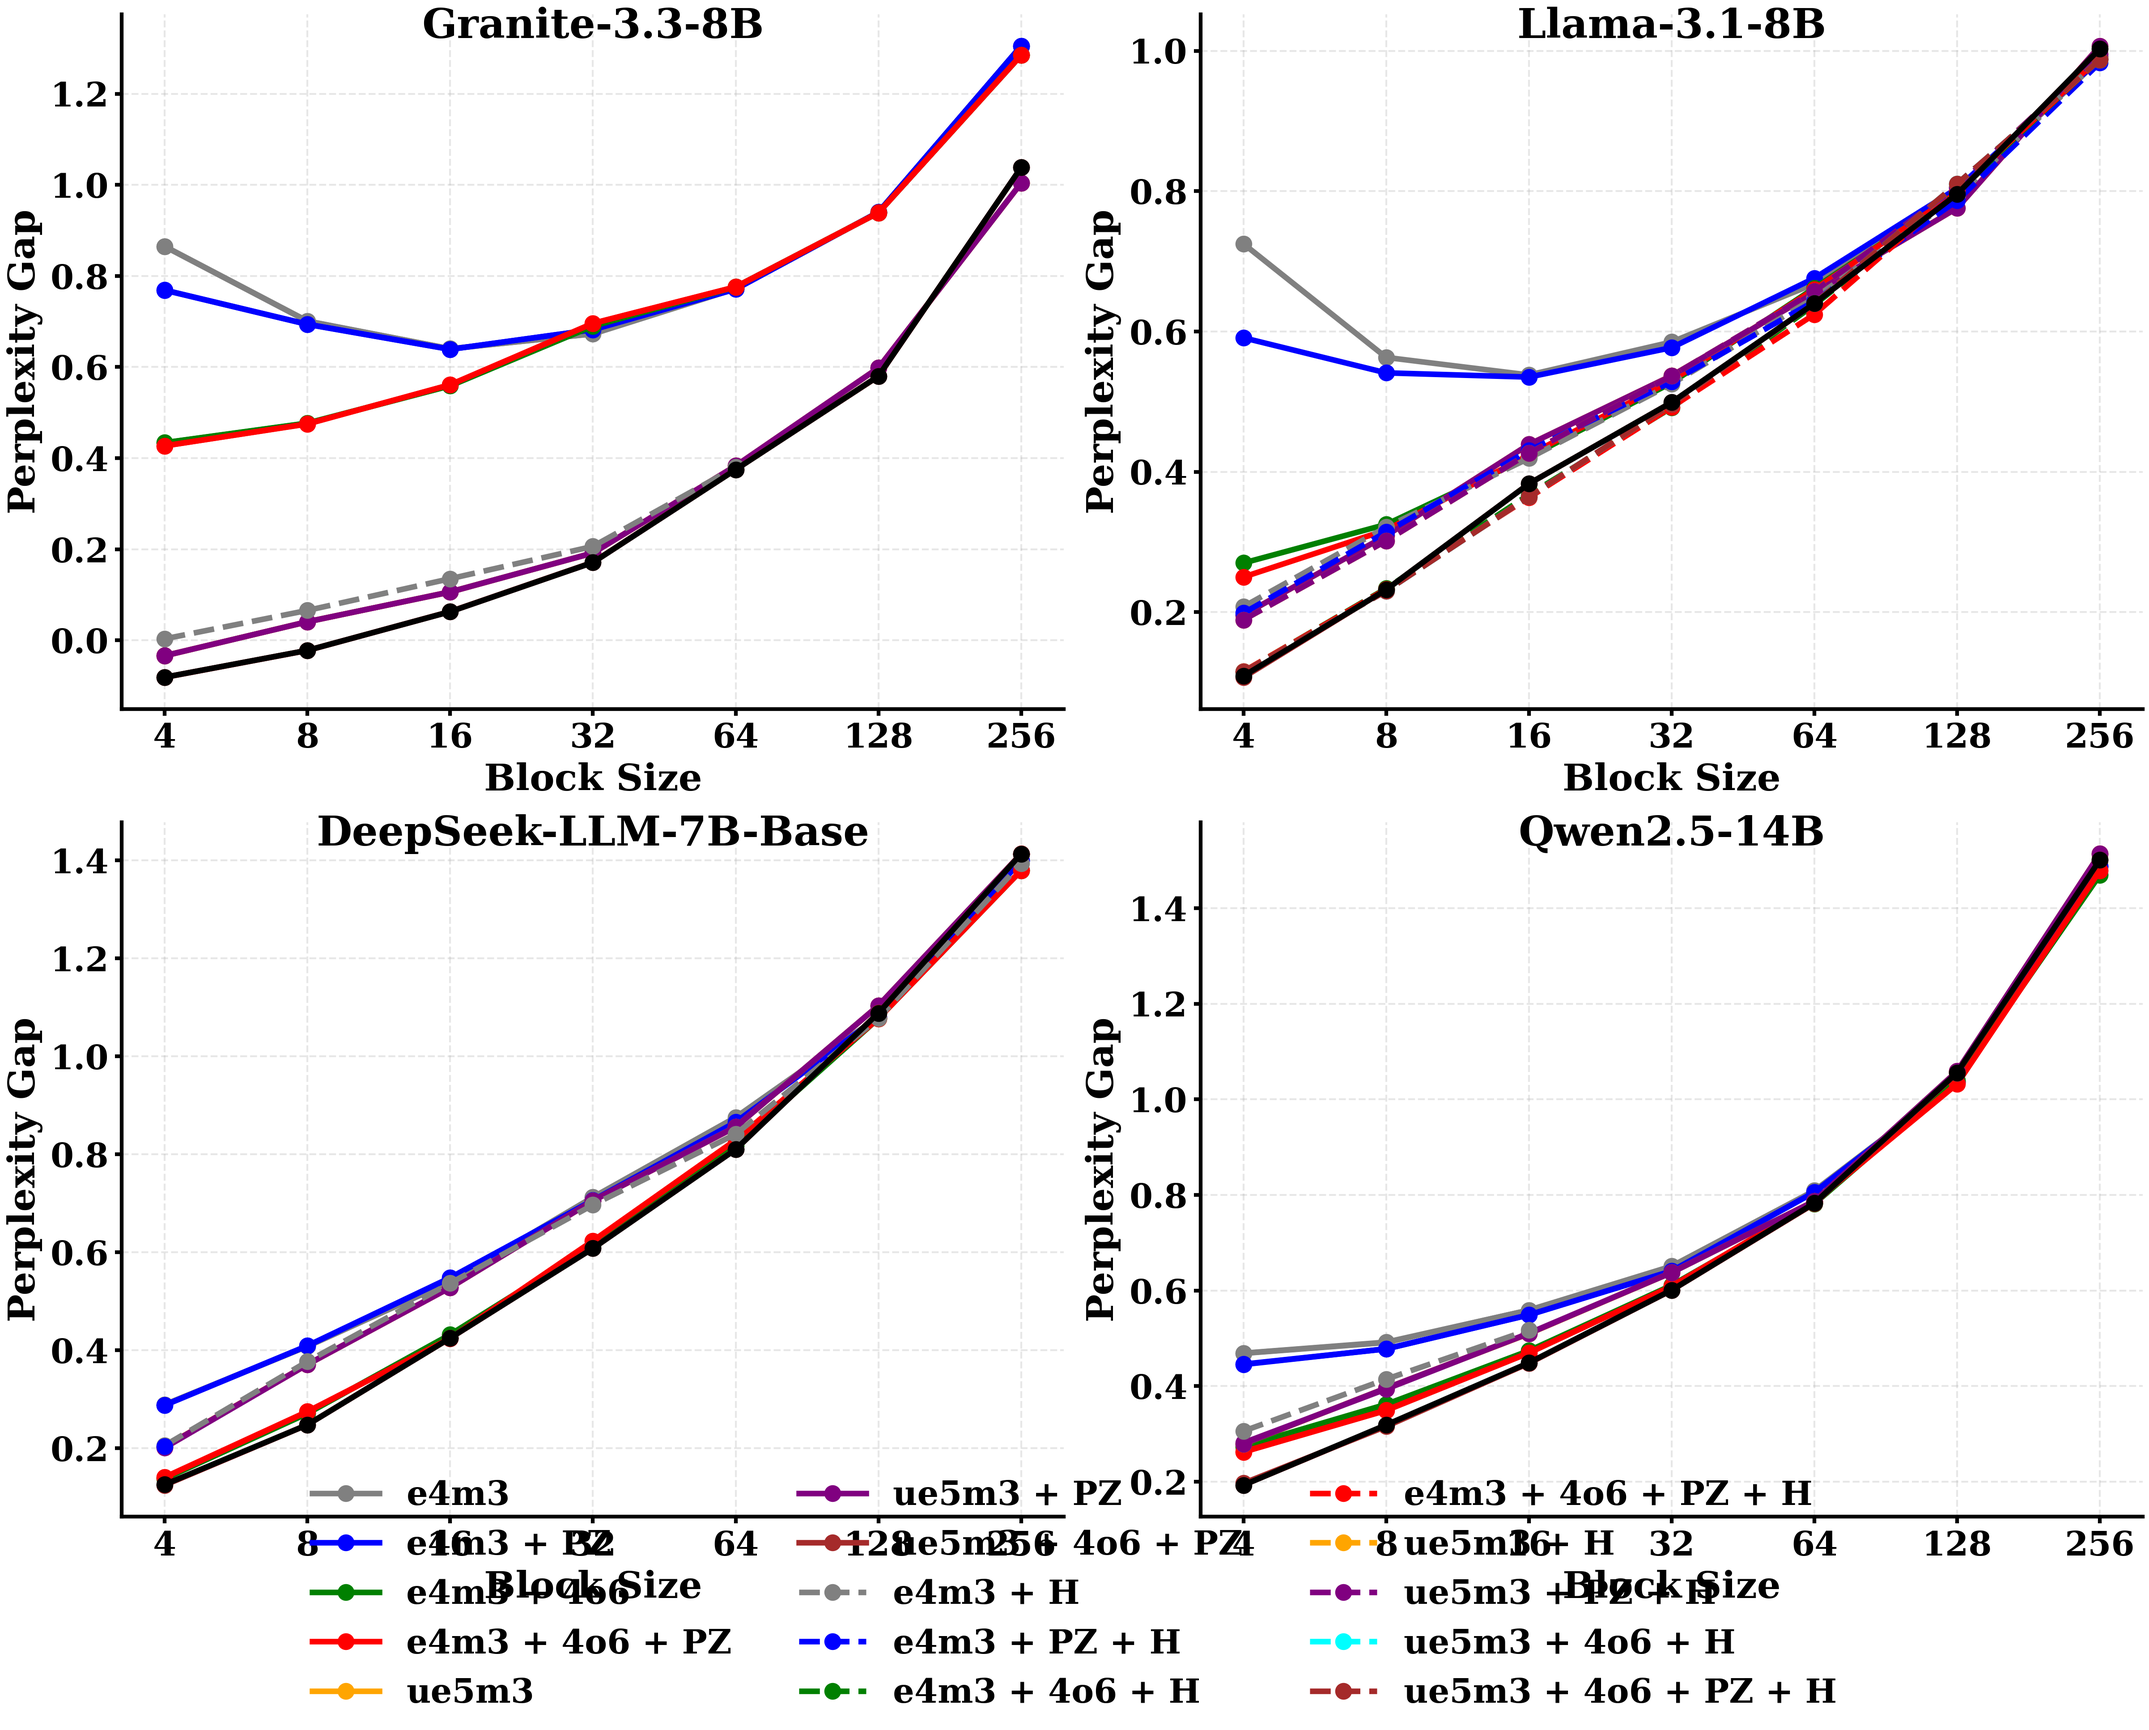
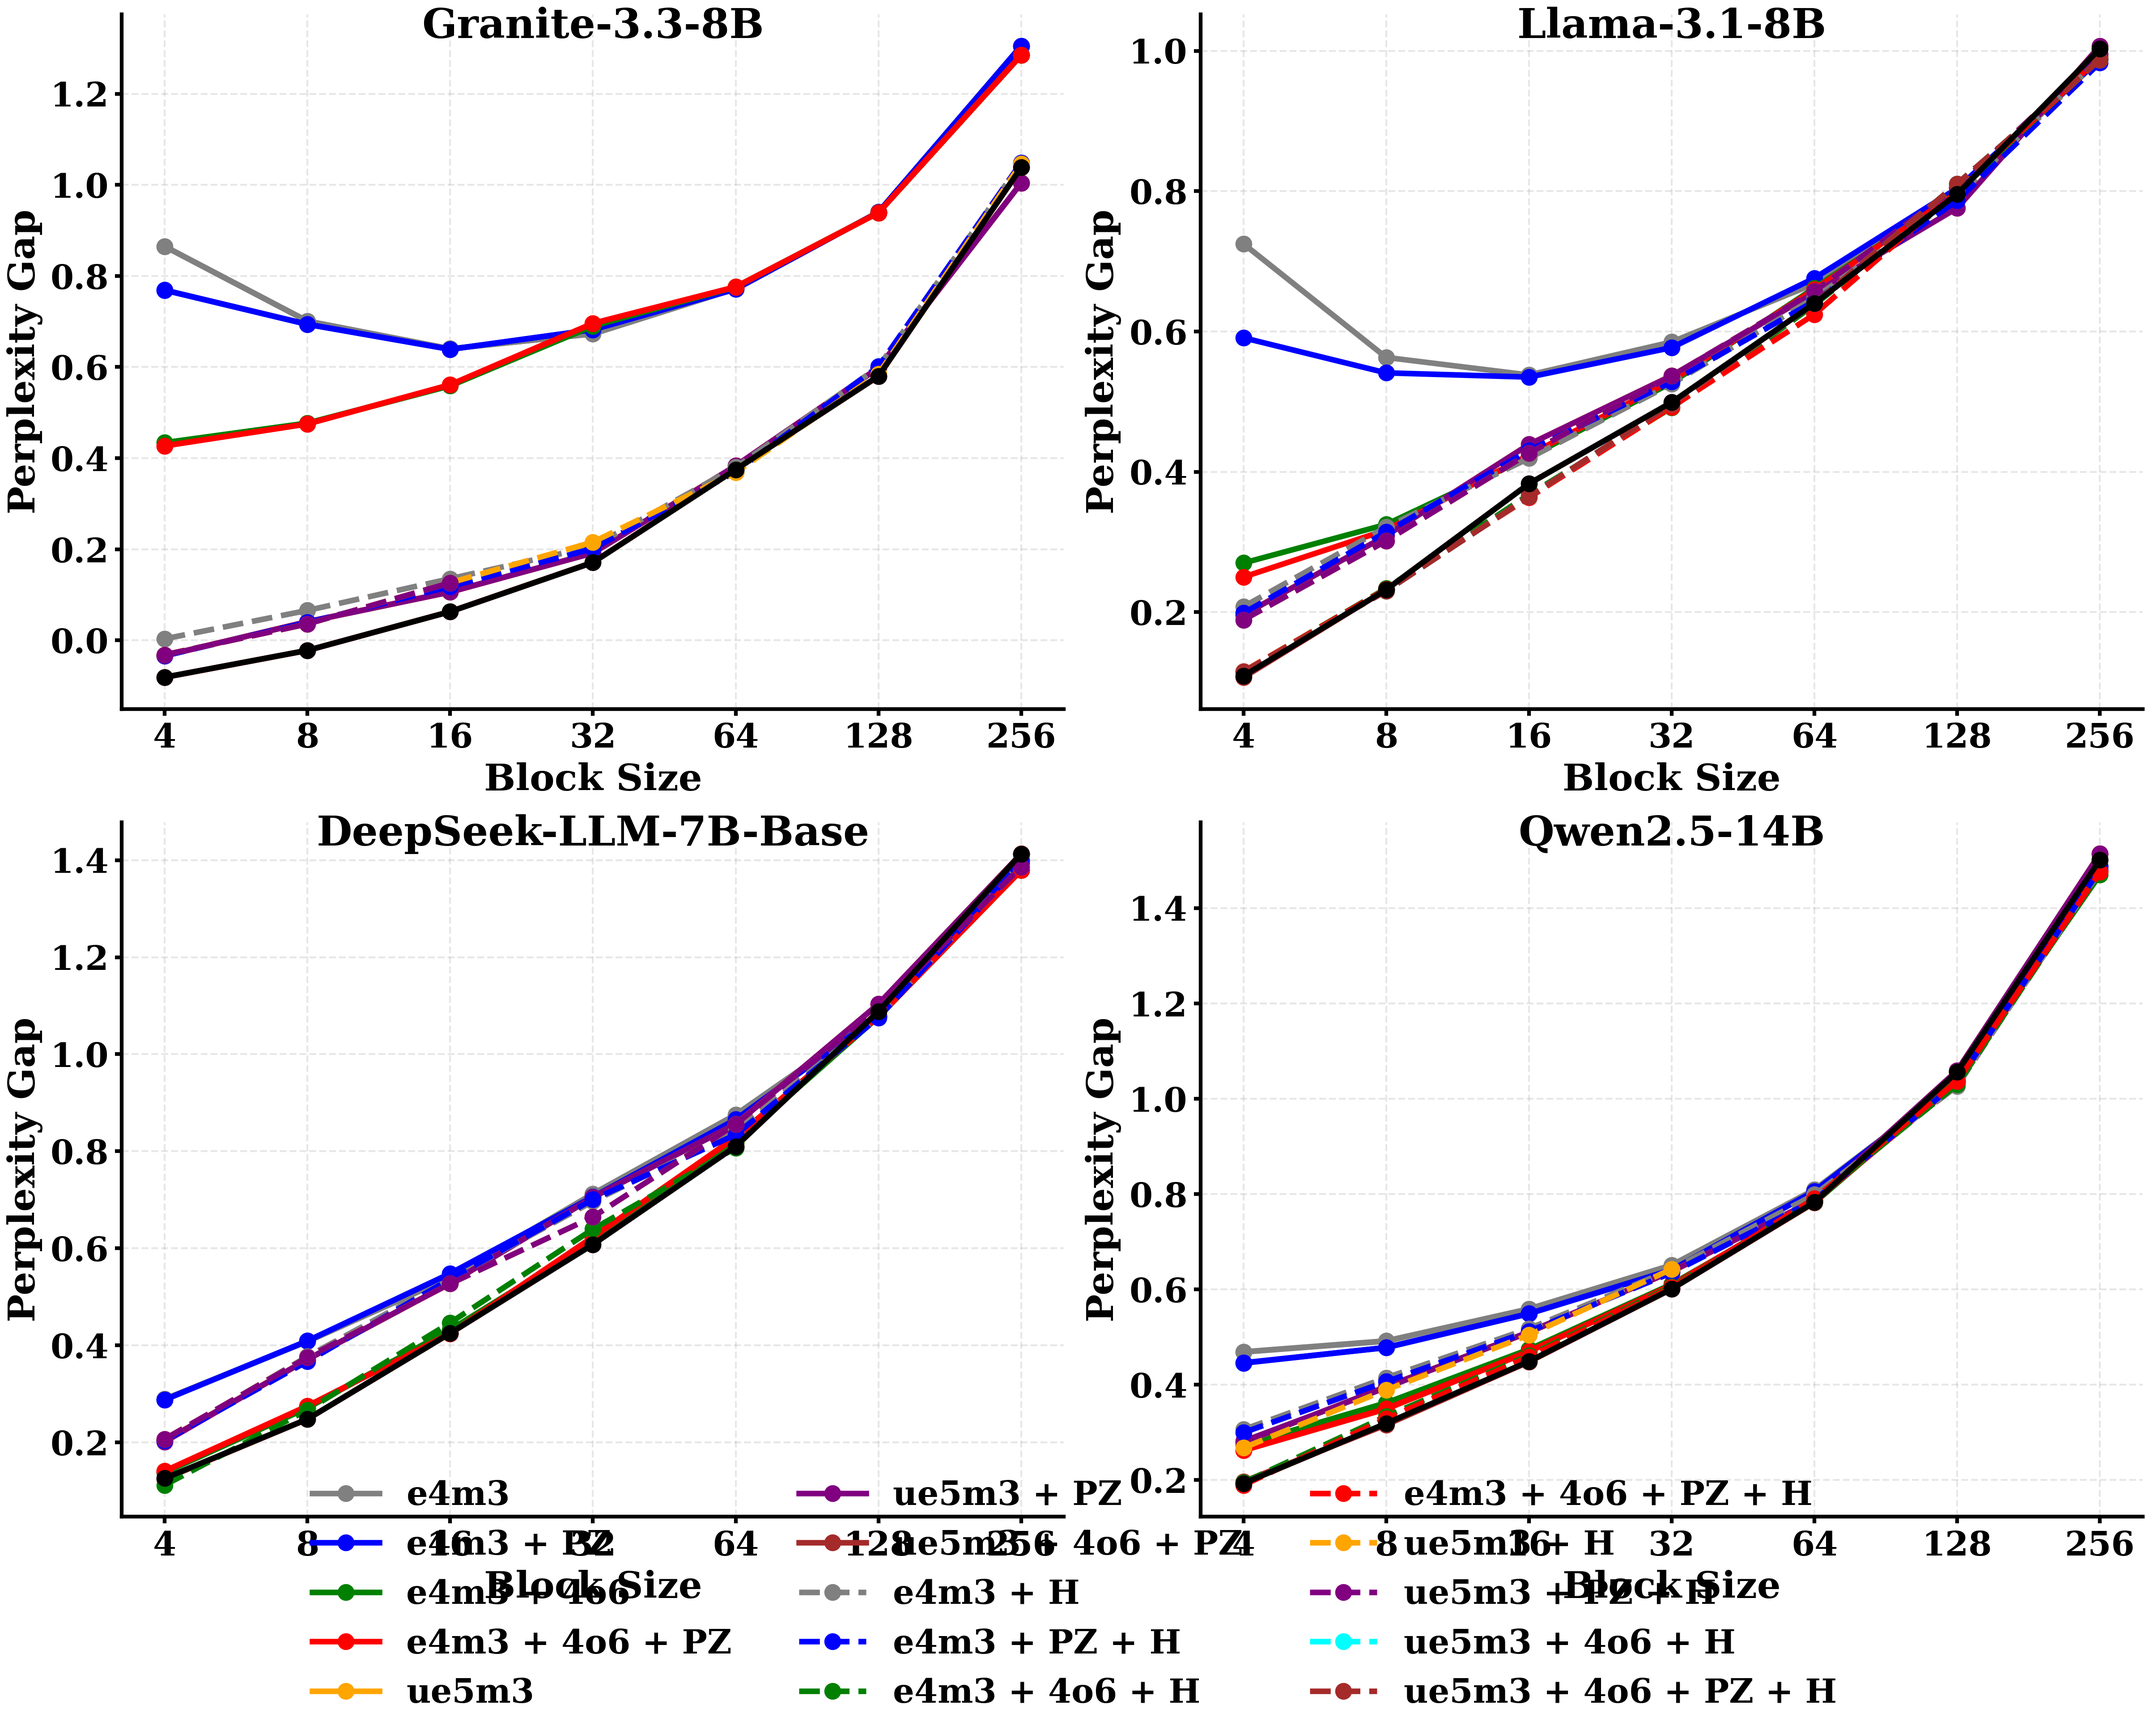
Remove phantom baseline rows and clean up tables

diff --git a/README.md b/README.md
@@ -96,7 +96,10 @@ This section is automatically updated by the evaluation script after each run. D
 | ue5m3 + PZ       |       4.91 |  -0.03 |   0.04 |    0.11 |    0.19 |    0.38 |     0.6  |     1    |
 | ue5m3 + 4o6      |       4.91 |  -0.08 |  -0.02 |    0.06 |    0.17 |    0.38 |     0.58 |     1.04 |
 | ue5m3 + 4o6 + PZ |       4.91 |  -0.08 |  -0.02 |    0.06 |    0.17 |    0.38 |     0.58 |     1.04 |
-| e4m3 + H         |       4.91 |   0    |   0.07 |    0.14 |    0.21 |    0.38 |   nan    |   nan    |
+| e4m3 + H         |       4.91 |   0    |   0.07 |    0.14 |    0.21 |    0.38 |     0.6  |     1.05 |
+| e4m3 + PZ + H    |       4.91 |  -0.03 |   0.04 |    0.12 |    0.2  |    0.37 |     0.6  |     1.05 |
+| ue5m3 + H        |       4.91 |  -0.03 |   0.04 |    0.13 |    0.22 |    0.37 |     0.58 |     1.05 |
+| ue5m3 + PZ + H   |       4.91 |  -0.03 |   0.04 |    0.13 |  nan    |  nan    |   nan    |   nan    |
 
 ### Llama
 
@@ -132,21 +135,28 @@ This section is automatically updated by the evaluation script after each run. D
 | ue5m3 + 4o6      |      12.39 |   0.13 |   0.25 |    0.42 |    0.61 |    0.81 |     1.09 |     1.41 |
 | ue5m3 + 4o6 + PZ |      12.39 |   0.12 |   0.25 |    0.42 |    0.61 |    0.81 |     1.09 |     1.41 |
 | e4m3 + H         |      12.39 |   0.21 |   0.38 |    0.54 |    0.7  |    0.84 |     1.08 |     1.39 |
-| e4m3 + PZ + H    |      12.39 |   0.2  | nan    |  nan    |  nan    |  nan    |   nan    |   nan    |
+| e4m3 + PZ + H    |      12.39 |   0.2  |   0.37 |    0.54 |    0.7  |    0.83 |     1.08 |     1.39 |
+| e4m3 + 4o6 + H   |      12.39 |   0.11 |   0.27 |    0.45 |    0.64 |    0.81 |   nan    |   nan    |
+| ue5m3 + H        |      12.39 |   0.21 |   0.38 |    0.53 |    0.66 |    0.86 |     1.09 |     1.39 |
+| ue5m3 + PZ + H   |      12.39 |   0.21 |   0.38 |    0.53 |    0.66 |    0.86 |     1.09 |     1.39 |
 
 ### Qwen
 
-|                  |   Baseline |   BS=4 |   BS=8 |   BS=16 |   BS=32 |   BS=64 |   BS=128 |   BS=256 |
-|:-----------------|-----------:|-------:|-------:|--------:|--------:|--------:|---------:|---------:|
-| e4m3             |       5.36 |   0.47 |   0.49 |    0.56 |    0.65 |    0.81 |     1.04 |     1.49 |
-| e4m3 + PZ        |       5.36 |   0.45 |   0.48 |    0.55 |    0.64 |    0.81 |     1.04 |     1.49 |
-| e4m3 + 4o6       |       5.36 |   0.27 |   0.36 |    0.47 |    0.61 |    0.78 |     1.04 |     1.47 |
-| e4m3 + 4o6 + PZ  |       5.36 |   0.26 |   0.35 |    0.47 |    0.61 |    0.79 |     1.03 |     1.48 |
-| ue5m3            |       5.36 |   0.28 |   0.4  |    0.51 |    0.64 |    0.79 |     1.06 |     1.51 |
-| ue5m3 + PZ       |       5.36 |   0.28 |   0.39 |    0.51 |    0.64 |    0.79 |     1.06 |     1.51 |
-| ue5m3 + 4o6      |       5.36 |   0.19 |   0.32 |    0.45 |    0.6  |    0.78 |     1.06 |     1.5  |
-| ue5m3 + 4o6 + PZ |       5.36 |   0.2  |   0.32 |    0.45 |    0.6  |    0.78 |     1.06 |     1.5  |
-| e4m3 + H         |       5.36 |   0.31 |   0.41 |    0.52 |  nan    |  nan    |   nan    |   nan    |
+|                     |   Baseline |   BS=4 |   BS=8 |   BS=16 |   BS=32 |   BS=64 |   BS=128 |   BS=256 |
+|:--------------------|-----------:|-------:|-------:|--------:|--------:|--------:|---------:|---------:|
+| e4m3                |       5.36 |   0.47 |   0.49 |    0.56 |    0.65 |    0.81 |     1.04 |     1.49 |
+| e4m3 + PZ           |       5.36 |   0.45 |   0.48 |    0.55 |    0.64 |    0.81 |     1.04 |     1.49 |
+| e4m3 + 4o6          |       5.36 |   0.27 |   0.36 |    0.47 |    0.61 |    0.78 |     1.04 |     1.47 |
+| e4m3 + 4o6 + PZ     |       5.36 |   0.26 |   0.35 |    0.47 |    0.61 |    0.79 |     1.03 |     1.48 |
+| ue5m3               |       5.36 |   0.28 |   0.4  |    0.51 |    0.64 |    0.79 |     1.06 |     1.51 |
+| ue5m3 + PZ          |       5.36 |   0.28 |   0.39 |    0.51 |    0.64 |    0.79 |     1.06 |     1.51 |
+| ue5m3 + 4o6         |       5.36 |   0.19 |   0.32 |    0.45 |    0.6  |    0.78 |     1.06 |     1.5  |
+| ue5m3 + 4o6 + PZ    |       5.36 |   0.2  |   0.32 |    0.45 |    0.6  |    0.78 |     1.06 |     1.5  |
+| e4m3 + H            |       5.36 |   0.31 |   0.41 |    0.52 |    0.64 |    0.8  |     1.03 |     1.48 |
+| e4m3 + PZ + H       |       5.36 |   0.3  |   0.41 |    0.51 |    0.63 |    0.79 |     1.03 |     1.48 |
+| e4m3 + 4o6 + H      |       5.36 |   0.19 |   0.33 |    0.46 |    0.61 |    0.79 |     1.03 |     1.47 |
+| e4m3 + 4o6 + PZ + H |       5.36 |   0.19 |   0.33 |    0.46 |    0.6  |    0.79 |     1.04 |     1.48 |
+| ue5m3 + H           |       5.36 |   0.27 |   0.39 |    0.5  |    0.64 |  nan    |   nan    |   nan    |
 
 ### Perplexity Gap All Models
 ![Perplexity Gap All Models](plots/gap_all_models.png)
